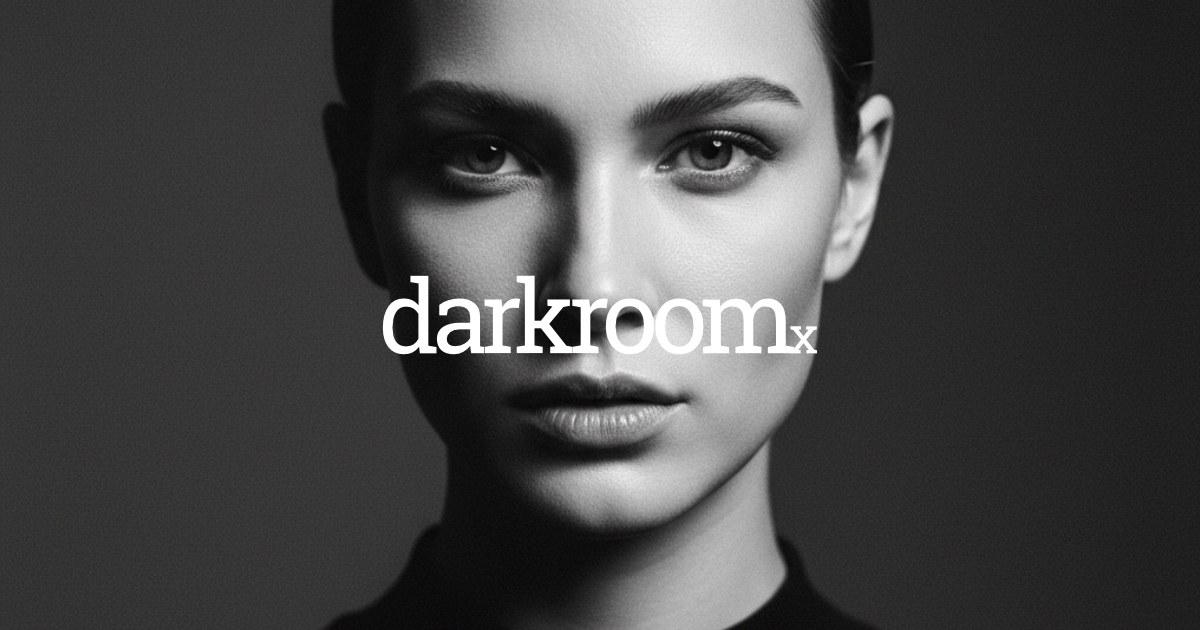
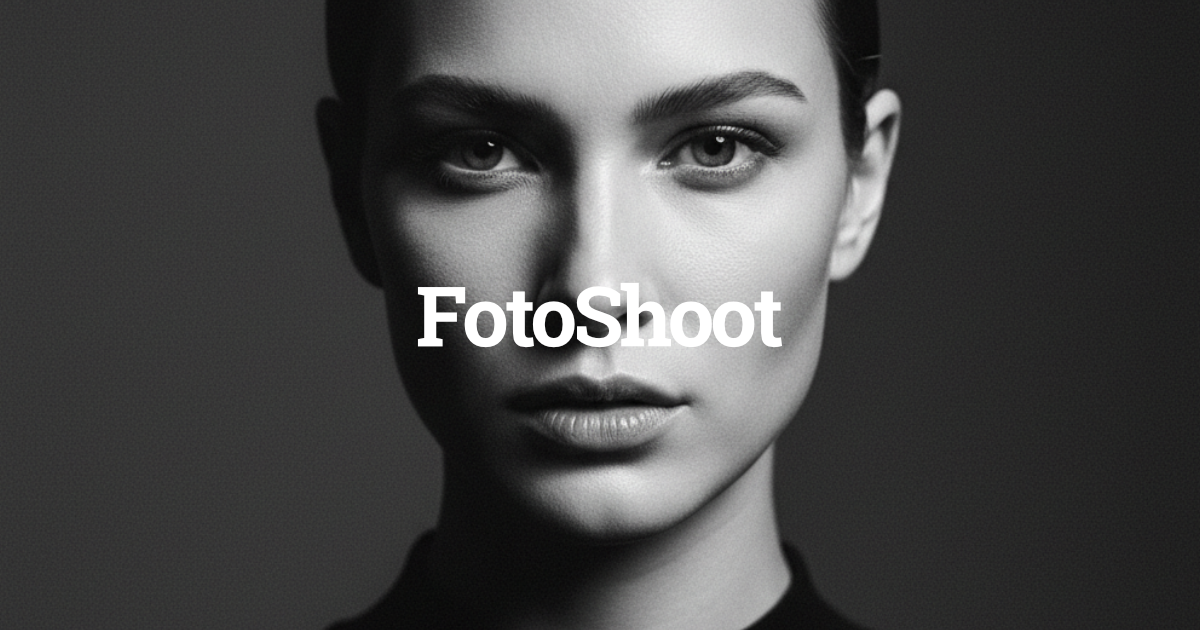
Fix Open Graph branding assets

diff --git a/public/darkroomx-common/index.html b/public/darkroomx-common/index.html
@@ -18,7 +18,7 @@
       content="Edit product photos, generate polished brand visuals, and resize images for Instagram with FotoShoot."
     />
     <meta property="og:url" content="https://fotoshoot.cloud/" />
-    <meta property="og:image" content="/assets/Share.png" />
+    <meta property="og:image" content="https://fotoshoot.cloud/assets/Share.png" />
     <meta property="og:image:alt" content="FotoShoot product photo editor and Instagram image resizer" />
     <meta name="twitter:card" content="summary_large_image" />
     <meta name="twitter:title" content="FotoShoot | AI Product Photo Editor & Resize Images for Instagram" />
@@ -26,7 +26,7 @@
       name="twitter:description"
       content="Edit product photos, generate polished brand visuals, and resize images for Instagram with FotoShoot."
     />
-    <meta name="twitter:image" content="/assets/Share.png" />
+    <meta name="twitter:image" content="https://fotoshoot.cloud/assets/Share.png" />
     <link rel="icon" type="image/png" href="/assets/Favicon.png" />
     <link rel="stylesheet" href="/darkroomx-common/styles.css" />
   </head>
@@ -42,7 +42,7 @@
         </nav>
       </header>
 
-      <section class="landing-hero" role="img" aria-label="DarkroomX hero image">
+      <section class="landing-hero" role="img" aria-label="FotoShoot hero image">
         <div class="landing-hero-slides" id="landingHeroSlides" aria-hidden="true">
           <img class="landing-hero-slide is-active" src="/assets/hero-image-01.png" alt="" loading="eager" decoding="async" />
           <img class="landing-hero-slide" src="/assets/slideshow/01.png" alt="" loading="lazy" decoding="async" />
@@ -61,7 +61,7 @@
         </div>
       </section>
 
-      <section class="landing-app-ui" aria-label="DarkroomX app interface preview">
+      <section class="landing-app-ui" aria-label="FotoShoot app interface preview">
         <div class="landing-app-ui-copy">
           <p>One focused workspace</p>
           <h1>Direct every product shot from one clean canvas</h1>
@@ -76,7 +76,7 @@
         </div>
       </section>
 
-      <section class="landing-features" aria-label="DarkroomX features">
+      <section class="landing-features" aria-label="FotoShoot features">
         <div class="landing-features-inner">
           <div class="landing-features-copy">
             <p>Built for product imagery</p>
@@ -158,7 +158,7 @@
         </div>
       </section>
 
-      <section class="landing-users" aria-label="DarkroomX users">
+      <section class="landing-users" aria-label="FotoShoot users">
         <div class="landing-users-inner">
           <div class="landing-users-copy">
             <h1>Who uses FotoShoot</h1>

diff --git a/app/layout.tsx b/app/layout.tsx
@@ -15,14 +15,14 @@ export const metadata: Metadata = {
       "Edit product photos, generate polished brand visuals, and resize images for Instagram with FotoShoot.",
     url: "https://fotoshoot.cloud",
     siteName: "FotoShoot",
-    images: ["/assets/Share.png"],
+    images: ["https://fotoshoot.cloud/assets/Share.png"],
   },
   twitter: {
     card: "summary_large_image",
     title: "FotoShoot | AI Product Photo Editor & Resize Images for Instagram",
     description:
       "Edit product photos, generate polished brand visuals, and resize images for Instagram with FotoShoot.",
-    images: ["/assets/Share.png"],
+    images: ["https://fotoshoot.cloud/assets/Share.png"],
   },
 };
 
